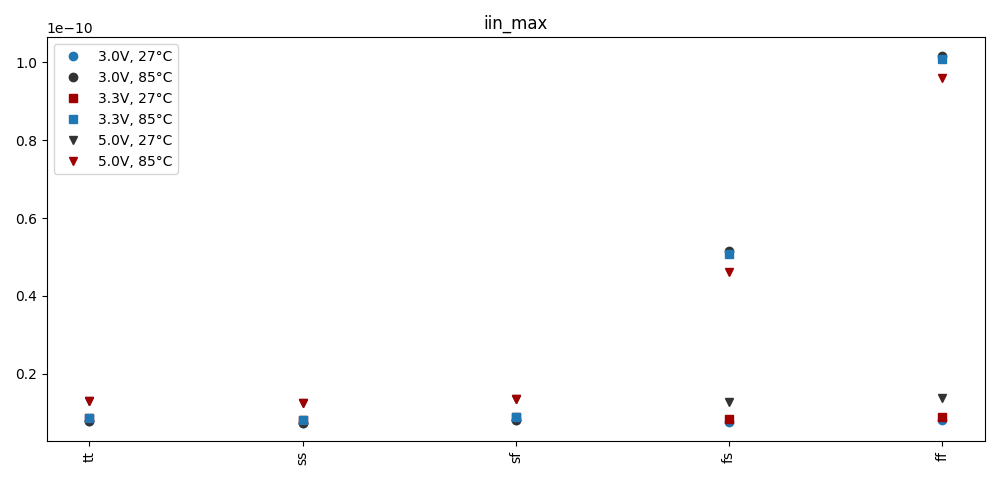
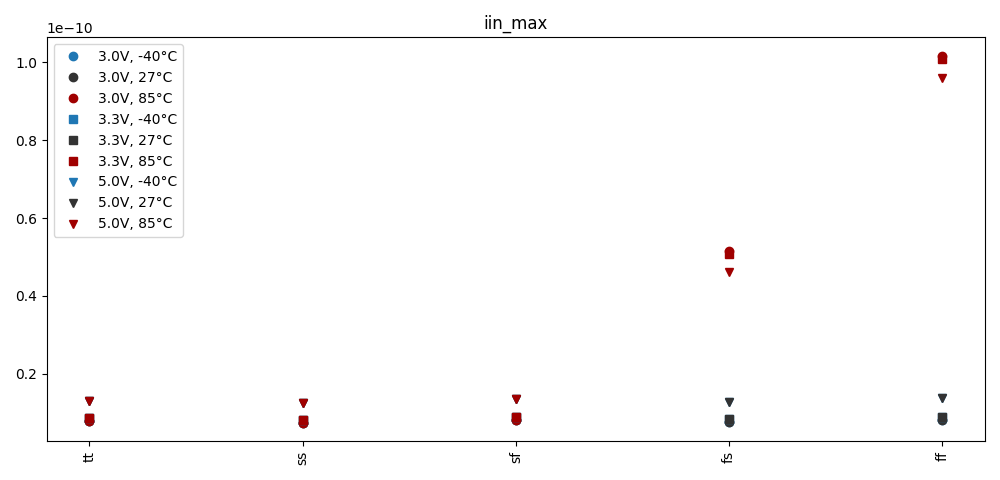
updated dc_spdt_leakage results

diff --git a/doc/spdt/dc_spdt_leakage.md b/doc/spdt/dc_spdt_leakage.md
@@ -6,6 +6,6 @@ Simulation results for dc_spdt_leakage
 
 |          | min       | max       | mean      | std       |
 |:---------|:----------|:----------|:----------|:----------|
-| iin_max  | 7.37331p  | 101.7355p | 22.67788p | 28.31678p |
+| iin_max  | 7.37331p  | 101.7355p | 18.36708p | 23.94926p |
 
 ![iin_max](pic/sim_sch/dc_spdt_leakage/iin_max.png)
